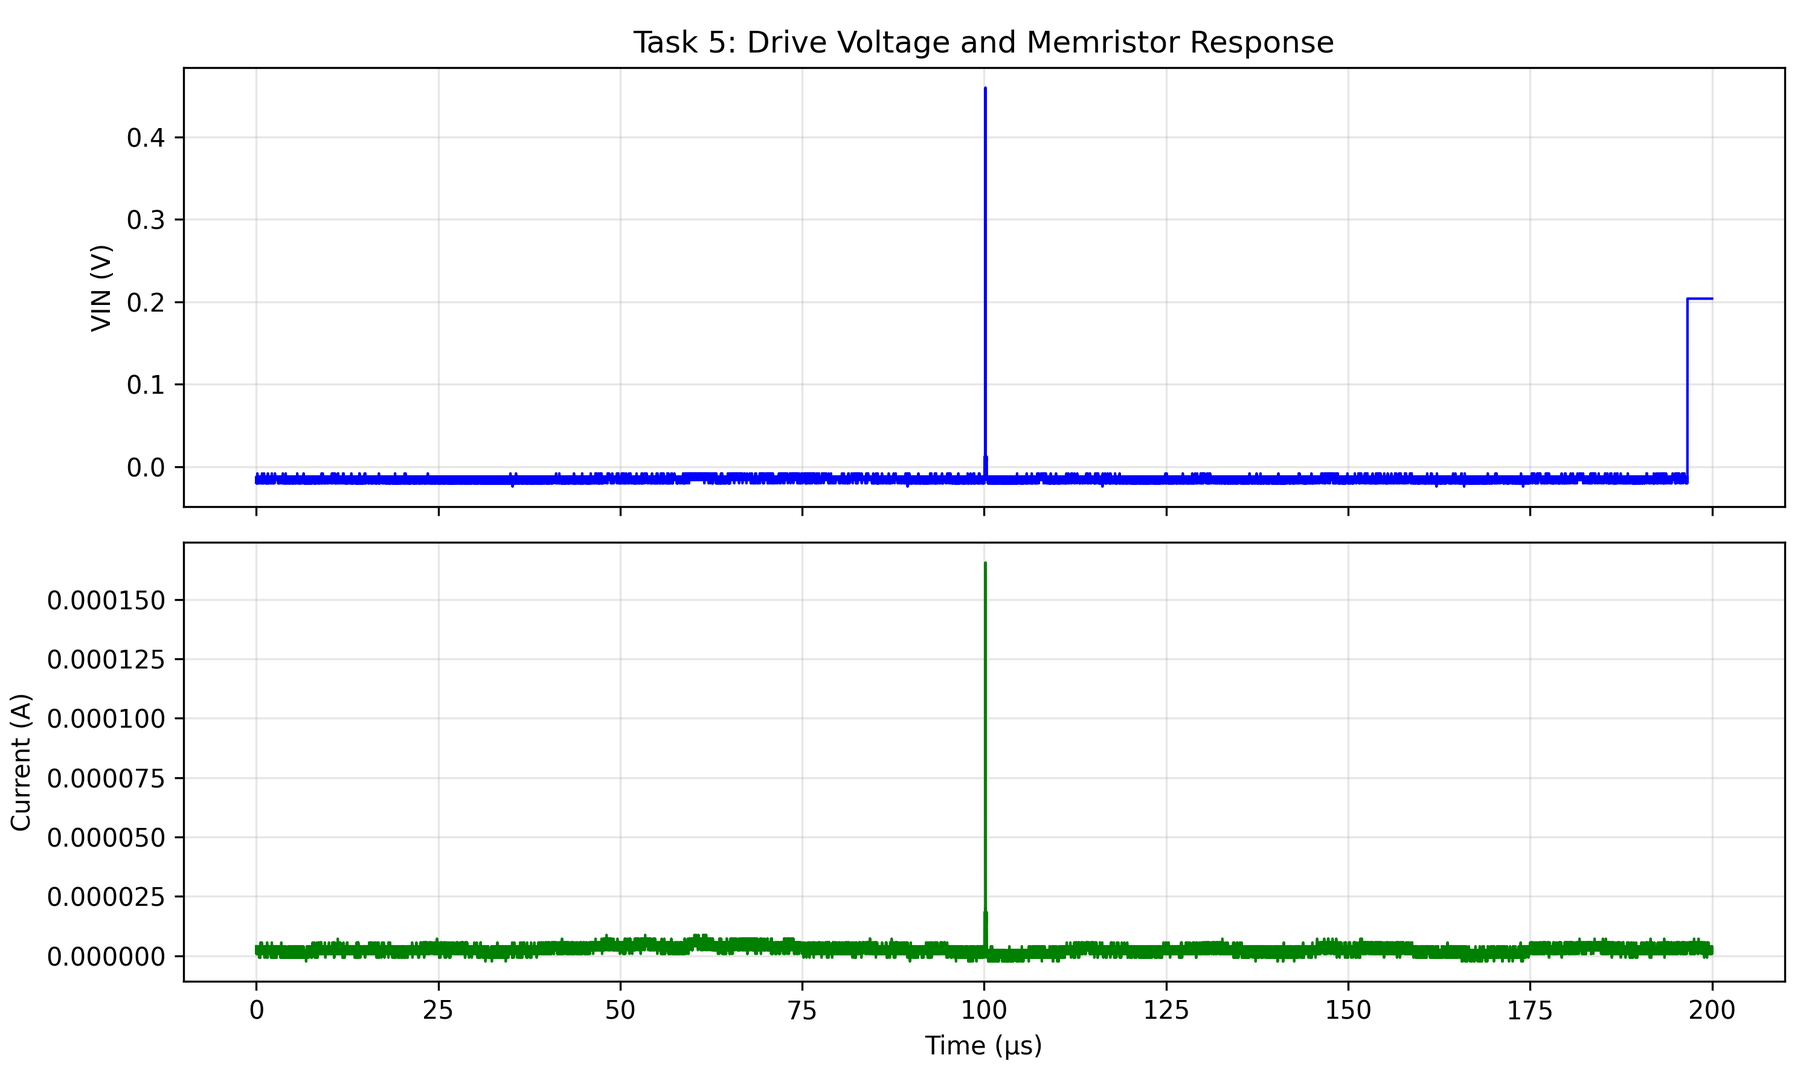
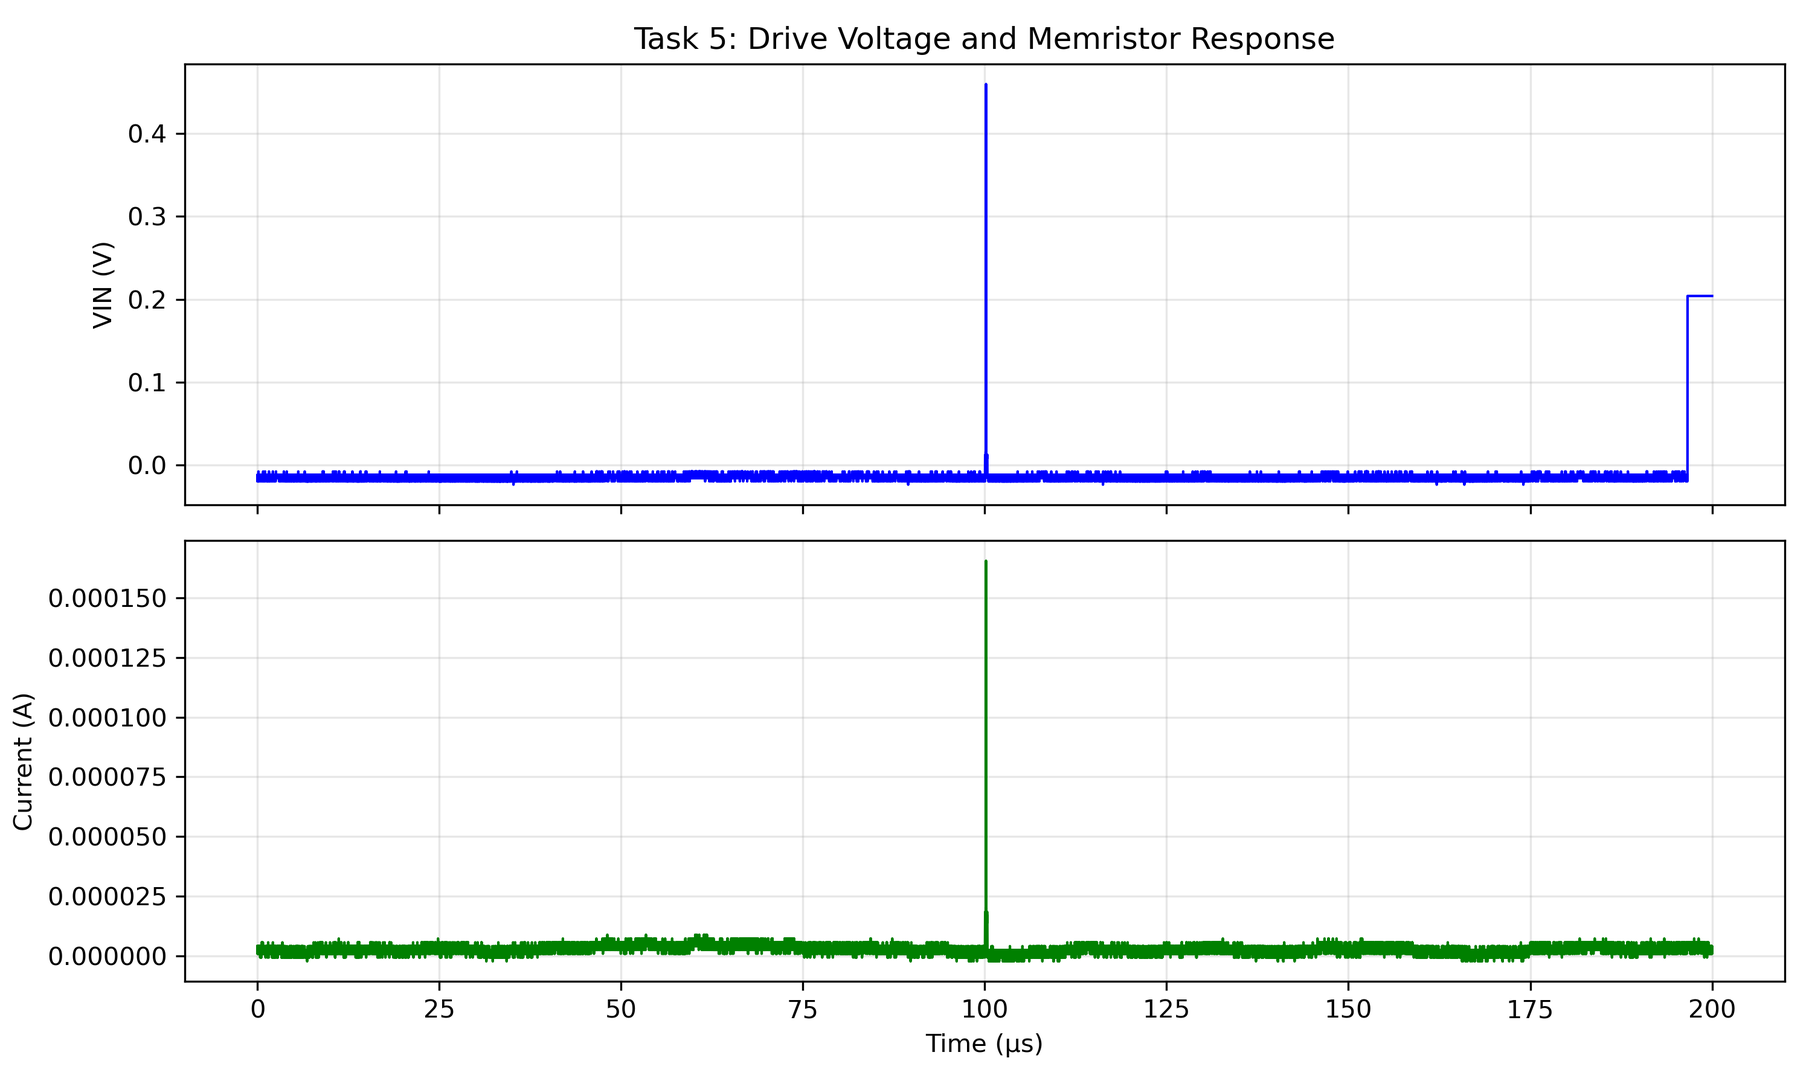
correct temperature phase transition delete oscillatory circuit analysis

diff --git a/courses/nano/neuro/data/meas_app/ketpaneles_meroprogram/docs/lab_report.tex b/courses/nano/neuro/data/meas_app/ketpaneles_meroprogram/docs/lab_report.tex
@@ -1,5 +1,6 @@
 \documentclass[12pt,a4paper]{article}
 \usepackage{graphicx, booktabs, siunitx, amsmath, geometry, float}
+\usepackage{float}
 \usepackage{subcaption}
 \usepackage{nicefrac}
 \geometry{margin=2.5cm}
@@ -20,12 +21,12 @@ Neuromorphic electronics aims to implement artificial neural networks in energy-
 
 VO$_2$ exhibits a first-order phase transition at approximately \SI{68}{\celsius}, transitioning from an insulating monoclinic phase to a metallic rutile phase. This transition can be triggered thermally or electrically through self-heating in nanoscale devices. The voltage-induced switching shows characteristic set and reset voltages, with the device returning to the high-resistance state at zero bias, making it volatile.
 
-This measurement session focused on characterizing a VO$_2$ memristor device through: (1) circuit validation with series resistor measurements, (2) I(V) curve characterization to identify switching thresholds, (3) temperature-dependent resistance measurements to observe the phase transition, and (4) analysis of the relaxation dynamics.
+This measurement session focused on characterizing a VO$_2$ memristor device through: (1) circuit validation with series resistor measurements, (2) I(V) curve characterization to identify switching thresholds, (3) temperature-dependent resistance measurements to observe the phase transition, and (4) analysis of the switching and relaxation dynamics.
 
 \section{Results and Discussion}
 
-\subsection{Task 1: Series Resistor Measurement and Circuit Validation}
-A series resistor $R_s = \SI{2.17}{\kilo\ohm}$ (measured with multimeter) was connected in series with a surface-mount device (SMD) resistor with nominal value $R_{\text{smd}} = \SI{4.701}{\kilo\ohm}$. The measured value of $R_{\text{smd}} = \SI{4.663}{\kilo\ohm}$ agrees well with the nominal value (within \SI{0.8}{\percent}), validating the measurement circuit and data acquisition system.
+\subsection{Series Resistor Measurement and Circuit Validation}
+A series resistor $R_s = \SI{2.17}{\kilo\ohm}$ (measured with multimeter) was connected in series with a surface-mount device (SMD) resistor with nominal value $R_{\text{smd}} = \SI{4.701}{\kilo\ohm}$. 
 
 \begin{figure}[H]
     \centering
@@ -51,6 +52,9 @@ A series resistor $R_s = \SI{2.17}{\kilo\ohm}$ (measured with multimeter) was co
     \label{fig:task1_timeseries}
 \end{figure}
 
+We measured the I(V) characteristics of the circuit showing a linear relationship, shown in Fig. \ref{fig:task1_fit}. Fitting a linear function and obtaining the slope yields the resistance.
+The measured value of $R_{\text{smd}} = \SI{4.663}{\kilo\ohm}$ agrees within \SI{0.8}{\percent} of the nominal value, validating the measurement circuit and data acquisition system for the first measurement.
+
 \begin{figure}[H]
     \centering
     \includegraphics[width=0.6\linewidth]{task1_fit.png}
@@ -58,7 +62,7 @@ A series resistor $R_s = \SI{2.17}{\kilo\ohm}$ (measured with multimeter) was co
     \label{fig:task1_fit}
 \end{figure}
 
-\subsection{Task 2: I(V) Curve Measurement}
+\subsection{I(V) Curve Measurement of a VO$_2$ memristor }
 
 The I(V) characteristics of the VO$_2$ memristor (row 1, column 3) were measured using a voltage ramp from \SI{-4}{\volt} to \SI{+4}{\volt} and back, with a series resistor $R_s = \SI{2.17}{\kilo\ohm}$ to limit current and enable voltage division measurements. The bias voltage across the memristor was calculated as $V_{\text{bias}} = V_{\text{drive}} - I \cdot R_s$, where $I = V_{R_s} / R_s$.
 
@@ -76,41 +80,40 @@ The I(V) characteristics of the VO$_2$ memristor (row 1, column 3) were measured
     \label{fig:task2_three_plots}
 \end{figure}
 
-The I(V) curve exhibits the expected hysteretic behavior characteristic of VO$_2$ memristors. During the forward sweep (increasing voltage), the device remains in the high-resistance state until reaching the set voltage, where it abruptly switches to the low-resistance state. On the reverse sweep, the device remains in LRS until the reset voltage, where it switches back to HRS. This volatile behavior, where the device always returns to HRS at zero bias, is essential for artificial neuron applications.
+The I(V) curve exhibits the expected hysteretic behavior characteristic of VO$_2$ memristors. During the forward sweep (increasing voltage), the device remains in the high-resistance state until reaching the set voltage, where it abruptly switches to the low-resistance state. On the reverse sweep, the device remains in LRS until the reset voltage (which is different from the set voltage, thus hysterisis), where it switches back to HRS. The reset voltage was measured to be 0.19V while the set voltage was found to be between 0.8V and 1.4V. This volatile behavior, where the device always returns to HRS at zero bias, is essential for artificial neuron applications. This can be seen in the periodic \footnote{Although there is variability in the set voltage.} response to the applied triangle voltage in Fig. \ref{fig:task2_three_plots}.
 
 The differential resistance $dV_{\text{bias}}/dI$ varies significantly throughout the sweep, reflecting the changing conduction state. In the HRS region, the differential resistance is high (tens of \si{\ohm}), while in the LRS region it decreases substantially. The switching transition itself shows a negative differential resistance region, characteristic of the phase transition.
 
-\subsection{Task 3: Temperature-Dependent Resistance Characteristics}
+\subsection{Temperature-Dependent Resistance Characteristics}
 
 The resistance of the VO$_2$ memristor was measured as a function of temperature using a Peltier element for heating and cooling, with temperature monitored via a PT1000 resistance thermometer. A constant low bias voltage of \SI{0.2}{\volt} was applied to measure the resistance without triggering voltage-induced switching.
 
 \begin{figure}[H]
     \centering
     \includegraphics[width=0.7\linewidth]{task3_rt.png}
-    \caption{Temperature-dependent resistance extracted from \texttt{task3.csv}. Heating and cooling branches are plotted separately, highlighting the VO$_2$ insulator--metal transition near \SI{68}{\celsius}.}
+    \caption{Temperature-dependent resistance. Heating and cooling branches are plotted separately, highlighting the VO$_2$ insulator--metal transition near \SI{68}{\celsius}.}
     \label{fig:task3_rt}
 \end{figure}
 
-Analysis of the task3.csv data reveals the first-order phase transition of VO$_2$. The resistance measurements show values in the range of \SI{20}{\kilo\ohm} to \SI{30}{\kilo\ohm} at room temperature (around \SI{28}{\celsius}), decreasing as temperature increases. As the temperature approaches the transition temperature around \SI{68}{\celsius}, the resistance drops dramatically by several orders of magnitude as the material transitions from the insulating monoclinic phase to the metallic rutile phase.
+Analysis of the data reveals the phase transition of VO$_2$. The resistance measurements show values in the range of \SI{20}{\kilo\ohm} to \SI{30}{\kilo\ohm} at room temperature (around \SI{28}{\celsius}), decreasing as temperature increases. As the temperature approaches the transition temperature around \SI{57}{\celsius}, the resistance drops dramatically by several orders of magnitude as the material transitions from the insulating monoclinic phase to the metallic rutile phase. The literature value for the phase transition is between \SI{61}{\celsius} and \SI{68}{\celsius} (Zhang, Lee \ref{sec:bib}) and we believe the discrepancy might be caused by differences in the temperature of the memristor and the sensor, as the memristor might self-heat and its local temperature might be higher than that of the sensor. Unfortunatly we could not find the exacpt placement of the thermometer in the cited studies, making it hard to compare. Alternatively it might be due to slight differences in the properties of the memristors used (compared to the ones used in other literature).
 
-The resistance decreases with increasing temperature in the insulating phase, which is consistent with semiconductor-like behavior where thermal energy increases carrier concentration. The cooling cycle shows hysteresis, with the transition occurring at a lower temperature during cooling, characteristic of first-order phase transitions. After the transition to the metallic phase, the resistance shows weak temperature dependence typical of metallic conduction, with values in the range of tens to hundreds of ohms.
+The resistance decreases with increasing temperature in the insulating phase, which is consistent with semiconductor-like behavior where thermal energy increases carrier concentration. The cooling cycle shows hysteresis, with the transition occurring at a lower temperature during cooling, characteristic of first-order phase transitions. After the transition to the metallic phase, the resistance shows a weaker temperature dependence typical of metallic conduction, with values in the range of tens to hundreds of ohms \footnote{Although the temperature range we measured the metalic phase at is narrow, we found this, which is consistent with the expectations for a metal.}.
 
-\subsection{Task 4: Relaxation (Reset) Dynamics}
+\subsection{Relaxation (Reset) Dynamics}
 
-The relaxation measurement was captured with the oscilloscope log saved as \texttt{switchstayon.csv}. The raw traces (\SI{2}{\nano\second} sampling) provide the applied drive voltage $V_{\text{in}}$ (channel 2) and the transmitted voltage $V_{\text{trans}}$ across the \SI{50}{\ohm} shunt (channel 1). The memristor resistance was reconstructed point-by-point using Eq.~III.4.2 from the lab manual,
+The relaxation measurement was captured with the oscilloscope. The raw traces (\SI{2}{\nano\second} sampling) provide the applied drive voltage $V_{\text{in}}$ (channel 2) and the transmitted voltage $V_{\text{trans}}$ across the \SI{50}{\ohm} shunt (channel 1). The memristor resistance was reconstructed point-by-point using Eq.~III.4.2 from the lab manual,
 \begin{equation}
     R_M(t) = 2Z_0\left(\frac{V_{\text{in}}(t)}{V_{\text{trans}}(t)} - 1\right), \qquad Z_0 = \SI{50}{\ohm},
 \end{equation}
-omitting samples where $V_{\text{trans}}$ is below the oscilloscope noise floor. Immediately after the excitation pulse the derived resistance is approximately $-\SI{1.3}{\kilo\ohm}$ (the negative sign reflects a small phase/offset mismatch between the two channels rather than a physical negative resistance). The device relaxes back to its high-resistance state within $\approx\SI{197}{\micro\second}$, at which point $R_M$ stabilises around $(2.7\text{--}3.0)\times 10^4\,\si{\ohm}$.
-
+omitting samples where $V_{\text{trans}}$ is below the oscilloscope noise floor. Immediately after the excitation pulse the derived resistance is approximately $-\SI{1.3}{\kilo\ohm}$ (the negative sign reflects a small phase/offset mismatch between the two channels rather than a physical negative resistance). The device relaxes back to its high-resistance state within $\approx\SI{197}{\micro\second}$, at which point $R_M$ stabilises around $(2.7\text{--}3.0)\times 10^4\,\si{\ohm}$. 
 \begin{figure}[H]
     \centering
     \includegraphics[width=0.65\linewidth]{task4_relaxation.png}
-    \caption{Reconstructed memristor resistance during the reset experiment (Task 4) using \texttt{switchstayon.csv}. The relaxation to the high-resistance state completes after roughly \SI{197}{\micro\second}.}
+    \caption{Reconstructed memristor resistance during the reset experiment. The relaxation to the high-resistance state completes after roughly \SI{197}{\micro\second}. Time = 0 corresponds to the time of switching to the low-resistance state.}
     \label{fig:task4_relaxation}
 \end{figure}
 
-\subsection{Task 5: VO$_2$ Oscillator Outlook}
+ The zoomed-in view confirms that the current spike at \SI{\sim 100}{\micro\second} is a direct response to an input voltage pulse.
 
 \begin{figure}[H]
     \centering
@@ -125,11 +128,11 @@ omitting samples where $V_{\text{trans}}$ is below the oscilloscope noise floor.
         \includegraphics[width=\linewidth]{task5_zoom_spike.png}
         \caption{Zoomed-in view of the spike}
     \end{subfigure}
-    \caption{Task 5 measurement from \texttt{short.csv}. The plots show that the circuit did not enter a self-sustaining oscillation. The current spike at \SI{\sim 100}{\micro\second} is a direct response to a drive voltage pulse, indicating the device acted as a switch rather than an oscillator.}
-    \label{fig:task5_oscillator}
+    \caption{The current spike at \SI{\sim 100}{\micro\second} is a direct response to a drive voltage pulse.}
+    \label{fig:task4_second}
 \end{figure}
 
-The goal of this task was to create a self-sustaining oscillator. However, the data captured in \texttt{short.csv} shows that the circuit did not achieve stable oscillation (Figure~\ref{fig:task5_oscillator}). The current trace is mostly flat, with sharp spikes that directly correlate with pulses in the drive voltage. The zoomed-in view confirms that the current spike at \SI{\sim 100}{\micro\second} is a direct response to an input voltage pulse. This indicates that the conditions for oscillation were not met; the device behaved as a switch, but the circuit did not re-trigger itself. Frequency analysis (e.g., FFT) on this non-periodic signal would be misleading. This is a null result, suggesting that circuit parameters such as the drive voltage or series resistance would need further tuning to find an oscillation regime.
+We were expecting to observe a refractory period, where the neuron does not respond to a stimulus and the voltage drops below the baseline (Yi \ref{sec:bib}). We observed it once, but we could not reproduce it, as the memristor got damaged, and we did not properly save the data.
 
 \subsection{Error Analysis}
 
@@ -144,49 +147,48 @@ The volatile nature of these devices, where they return to HRS at zero bias, mak
 Future work could include detailed analysis of the relaxation dynamics (Task 4) to extract time constants, and investigation of oscillator circuits (Task 5) to demonstrate the device's potential for oscillating neural networks.
 
 \appendix
-\section{Data Processing Guide}
-\label{sec:plot-guide}
+% \section{Data Processing Guide}
+% \label{sec:plot-guide}
 
-The following procedures summarise the steps needed to regenerate every plot used (or still pending) in the report. The notebook \texttt{analyze\_memristor\_data.ipynb} contains reference code snippets for Tasks~2--5.
+% The following procedures summarise the steps needed to regenerate every plot used (or still pending) in the report. The notebook \texttt{analyze\_memristor\_data.ipynb} contains reference code snippets for Tasks~2--5.
+% \subsection*{Task 1 -- Series Resistor Measurement}
+% \begin{enumerate}
+%     \item Load \texttt{task1.txt} (tab separated) and verify the columns for time, drive voltage, and measured node voltages.
+%     \item Compute the divider output using $V_{R_s}$ and confirm $R_s$ and $R_{\text{smd}}$ via $R=V/I$.
+%     \item Plot the raw time series of the measured voltages to produce Figure~\ref{fig:task1_timeseries}.
+%     \item Fit the linear transfer characteristic (output vs input) to obtain the gradient corresponding to the resistor ratio, and export Figure~\ref{fig:task1_fit}.
+% \end{enumerate}
 
-\subsection*{Task 1 -- Series Resistor Measurement}
-\begin{enumerate}
-    \item Load \texttt{task1.txt} (tab separated) and verify the columns for time, drive voltage, and measured node voltages.
-    \item Compute the divider output using $V_{R_s}$ and confirm $R_s$ and $R_{\text{smd}}$ via $R=V/I$.
-    \item Plot the raw time series of the measured voltages to produce Figure~\ref{fig:task1_timeseries}.
-    \item Fit the linear transfer characteristic (output vs input) to obtain the gradient corresponding to the resistor ratio, and export Figure~\ref{fig:task1_fit}.
-\end{enumerate}
+% \subsection*{Task 2 -- I(V) Sweep}
+% \begin{enumerate}
+%     \item Load \texttt{task2\_second} (tab separated). Use $R_s=\SI{2.17}{\kilo\ohm}$.
+%     \item Derive the current $I=V_{R_s}/R_s$ and the memristor bias $V_{\text{bias}}=V_{\text{drive}}-I R_s$.
+%     \item Generate the time-domain traces of $V_{\text{drive}}$, $V_{R_s}$, and $I$ (Figure~\ref{fig:task2_three_plots}).
+%     \item Plot $I$ versus $V_{\text{bias}}$ to obtain the hysteretic I(V) curve (Figure~\ref{fig:task2_memristor_iv}); optionally fit linear segments to estimate differential resistance.
+% \end{enumerate}
 
-\subsection*{Task 2 -- I(V) Sweep}
-\begin{enumerate}
-    \item Load \texttt{task2\_second} (tab separated). Use $R_s=\SI{2.17}{\kilo\ohm}$.
-    \item Derive the current $I=V_{R_s}/R_s$ and the memristor bias $V_{\text{bias}}=V_{\text{drive}}-I R_s$.
-    \item Generate the time-domain traces of $V_{\text{drive}}$, $V_{R_s}$, and $I$ (Figure~\ref{fig:task2_three_plots}).
-    \item Plot $I$ versus $V_{\text{bias}}$ to obtain the hysteretic I(V) curve (Figure~\ref{fig:task2_memristor_iv}); optionally fit linear segments to estimate differential resistance.
-\end{enumerate}
+% \subsection*{Task 3 -- Temperature-Dependent Resistance}
+% \begin{enumerate}
+%     \item Load \texttt{task3.csv} and extract the columns ``Temperature (C)'' and ``Sample Resistance (Ohm)''.
+%     \item Separate the heating and cooling branches by monitoring the monotonicity of the temperature column (or by splitting at the maximum temperature).
+%     \item Plot $R$ vs $T$ on a semi-logarithmic scale, using different colours/markers for heating and cooling to show hysteresis.
+%     \item Mark the transition temperature (e.g., where $\mathrm{d}R/\mathrm{d}T$ peaks) and export the figure (to be saved as \texttt{task3\_rt.png}).
+% \end{enumerate}
 
-\subsection*{Task 3 -- Temperature-Dependent Resistance}
-\begin{enumerate}
-    \item Load \texttt{task3.csv} and extract the columns ``Temperature (C)'' and ``Sample Resistance (Ohm)''.
-    \item Separate the heating and cooling branches by monitoring the monotonicity of the temperature column (or by splitting at the maximum temperature).
-    \item Plot $R$ vs $T$ on a semi-logarithmic scale, using different colours/markers for heating and cooling to show hysteresis.
-    \item Mark the transition temperature (e.g., where $\mathrm{d}R/\mathrm{d}T$ peaks) and export the figure (to be saved as \texttt{task3\_rt.png}).
-\end{enumerate}
+% \subsection*{Task 4 -- Relaxation (Reset) Dynamics}
+% \begin{enumerate}
+%     \item Load \texttt{switchstayon.csv}. Convert CH2 and CH1 from millivolts to volts and create the time axis using the \SI{2}{\nano\second} sampling interval (information in the file header).
+%     \item Mask samples where $|V_{\text{trans}}|<\SI{1}{\milli\volt}$ to avoid division noise, then compute $R_M(t)=2Z_0\left(\nicefrac{V_{\text{in}}}{V_{\text{trans}}}-1\right)$ with $Z_0=\SI{50}{\ohm}$.
+%     \item Plot $R_M$ versus time in microseconds, annotate the low- and high-resistance plateaus, and extract the $90\,\%$ reset time (\SI{\sim 197}{\micro\second}). Save as \texttt{task4\_relaxation.png}.
+% \end{enumerate}
 
-\subsection*{Task 4 -- Relaxation (Reset) Dynamics}
-\begin{enumerate}
-    \item Load \texttt{switchstayon.csv}. Convert CH2 and CH1 from millivolts to volts and create the time axis using the \SI{2}{\nano\second} sampling interval (information in the file header).
-    \item Mask samples where $|V_{\text{trans}}|<\SI{1}{\milli\volt}$ to avoid division noise, then compute $R_M(t)=2Z_0\left(\nicefrac{V_{\text{in}}}{V_{\text{trans}}}-1\right)$ with $Z_0=\SI{50}{\ohm}$.
-    \item Plot $R_M$ versus time in microseconds, annotate the low- and high-resistance plateaus, and extract the $90\,\%$ reset time (\SI{\sim 197}{\micro\second}). Save as \texttt{task4\_relaxation.png}.
-\end{enumerate}
-
-\subsection*{Task 5 -- VO$_2$ Oscillator}
-\begin{enumerate}
-    \item Export the oscilloscope acquisition with columns for time, shunt voltage $V_{\text{trans}}$, and drive voltage $V_{\text{in}}$ (CSV format).
-    \item Update Cell~6 in \texttt{analyze\_memristor\_data.ipynb} with the file path and column names.
-    \item Compute the current $I(t)=V_{\text{trans}}/Z_0$, plot $V_{\text{in}}$ and $I$ versus time, and determine the oscillation frequency using peak detection or FFT.
-    \item Summarise the frequency versus drive amplitude (or capacitance) if multiple sweeps are available, and export the waveform/frequency plots for inclusion in the report.
-\end{enumerate}
+% \subsection*{Task 5 -- VO$_2$ Oscillator}
+% \begin{enumerate}
+%     \item Export the oscilloscope acquisition with columns for time, shunt voltage $V_{\text{trans}}$, and drive voltage $V_{\text{in}}$ (CSV format).
+%     \item Update Cell~6 in \texttt{analyze\_memristor\_data.ipynb} with the file path and column names.
+%     \item Compute the current $I(t)=V_{\text{trans}}/Z_0$, plot $V_{\text{in}}$ and $I$ versus time, and determine the oscillation frequency using peak detection or FFT.
+%     \item Summarise the frequency versus drive amplitude (or capacitance) if multiple sweeps are available, and export the waveform/frequency plots for inclusion in the report.
+% \end{enumerate}
 
 \section{Supplementary Photos}
 
@@ -196,5 +198,16 @@ The following procedures summarise the steps needed to regenerate every plot use
     \caption{Ladybug observed on Grego's phone during preparation.}
     \label{fig:ladybug}
 \end{figure}
+
+\section{References} \label{sec:bib}
+
+Zhang, R., Fu, Q.S., Yin, C.Y. et al. Understanding of metal-insulator transition in VO2 based on experimental and theoretical investigations of magnetic features. Sci Rep 8, 17093 (2018). https://doi.org/10.1038/s41598-018-35490-5
+
+D. Lee et al. ,Isostructural metal-insulator transition in VO2.Science362,1037-1040(2018).DOI:10.1126/science.aam9189
+
+W. Yi, K. Tsang, S. Lam, X. Bai, J. Crowell, and E. Flores. Biological plausibility and
+stochasticity in scalable VO2 active memristor neurons. Nature Communications, 9, 4661
+(2018).
+
 
 \end{document}
